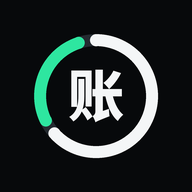
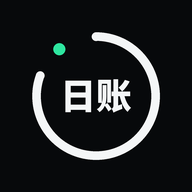
Add files via upload

Changed region(s): [[0.1562, 0.1562, 0.8438, 0.8438], [0.3125, 0.3438, 0.6875, 0.6562]]

diff --git a/app.css b/app.css
@@ -388,3 +388,22 @@ body:not(.owner) .owner-only { display: none !important; }
 @keyframes slideR { from { opacity: .2; transform: translateX(-28px); } to { opacity: 1; transform: none; } }
 .swipe-l { animation: slideL .32s var(--ease); }
 .swipe-r { animation: slideR .32s var(--ease); }
+
+/* ---------- 打开时的过渡动画（WHOOP 风格：圆环画一圈 → 名字浮现 → 放大淡出） ---------- */
+#splash { position: fixed; inset: 0; z-index: 100; background: #07090B; display: flex; flex-direction: column; align-items: center; justify-content: center; gap: 26px;
+  transition: opacity .5s var(--ease), transform .6s var(--ease); }
+#splash .sp-logo { position: relative; width: 112px; height: 112px; }
+#splash svg { width: 100%; height: 100%; transform: rotate(-90deg); overflow: visible; }
+#splash .sp-arc { fill: none; stroke: #F4F6F7; stroke-width: 6; stroke-linecap: round; stroke-dasharray: 222.7 400; stroke-dashoffset: 222.7;
+  animation: spDraw .95s cubic-bezier(.65, 0, .35, 1) .1s forwards; }
+#splash .sp-dot { fill: #2EE6A0; opacity: 0; transform-box: fill-box; transform-origin: center; transform: scale(0);
+  animation: spDot .5s cubic-bezier(.3, 1.6, .5, 1) .95s forwards; filter: drop-shadow(0 0 5px rgba(46, 230, 160, .8)); }
+#splash .sp-mark { position: absolute; inset: 0; display: flex; align-items: center; justify-content: center; color: #F4F6F7;
+  font-size: 25px; font-weight: 800; letter-spacing: 1px; opacity: 0; transform: scale(.9); animation: spName .55s var(--ease) .55s forwards; }
+#splash .sp-name { color: #F4F6F7; font-size: 14px; font-weight: 600; letter-spacing: 3px; padding-left: 3px; opacity: 0; transform: translateY(8px);
+  animation: spName .6s var(--ease) .65s forwards; }
+#splash.out { opacity: 0; transform: scale(1.12); pointer-events: none; }
+@keyframes spDraw { to { stroke-dashoffset: 0; } }
+@keyframes spDot { to { opacity: 1; transform: scale(1); } }
+@keyframes spName { to { opacity: .9; transform: none; } }
+@media (prefers-reduced-motion: reduce) { #splash { display: none; } }

diff --git a/main.js b/main.js
@@ -101,8 +101,18 @@ function toast(msg, ms = 2000, act, fn) {
   }
   clearTimeout(toastTimer); toastTimer = setTimeout(() => { t.hidden = true; }, ms);
 }
+// 过渡动画：至少播放 1.3 秒，等第一屏准备好再淡出
+const splashT0 = performance.now();
+let splashGone = false;
+function hideSplash() {
+  if (splashGone) return; splashGone = true;
+  const sp = $('splash'); if (!sp) return;
+  setTimeout(() => { sp.classList.add('out'); setTimeout(() => sp.remove(), 700); }, Math.max(0, 1300 - (performance.now() - splashT0)));
+}
+setTimeout(hideSplash, 5000); // 网络很慢时也不要一直挡着
 function show(name) {
   ['loading', 'config', 'login', 'setup', 'app'].forEach(n => { $('s-' + n).hidden = n !== name; });
+  if (name !== 'loading') hideSplash();
   window.scrollTo(0, 0);
 }
 function errText(e) {

diff --git a/index.html b/index.html
@@ -15,6 +15,14 @@
 <script>try{var t=localStorage.getItem('theme');if(t)document.documentElement.dataset.theme=t;}catch(e){}</script>
 </head>
 <body>
+<!-- 打开时的过渡动画 -->
+<div id="splash" aria-hidden="true">
+  <div class="sp-logo">
+    <svg viewBox="0 0 120 120"><circle class="sp-arc" cx="60" cy="60" r="44"/><circle class="sp-dot" cx="94.7" cy="32.9" r="4.6"/></svg>
+    <b class="sp-mark">日账</b>
+  </div>
+  <div class="sp-name">店铺日账</div>
+</div>
 
 <!-- 加载中 -->
 <section id="s-loading" class="screen center-screen">

diff --git a/sw.js b/sw.js
@@ -1,5 +1,5 @@
 // 离线缓存：有网时总是取最新版本，没网时用手机上的缓存，保证离线也能打开
-const CACHE = 'rizhang-v25';
+const CACHE = 'rizhang-v26';
 const SHELL = [
   './', 'index.html', 'app.css', 'config.js', 'manifest.webmanifest',
   'main.js', 'db.js', 'stats.js', 'chart.js', 'firebase.js', 'holidays.js', 'xlsx.js',
